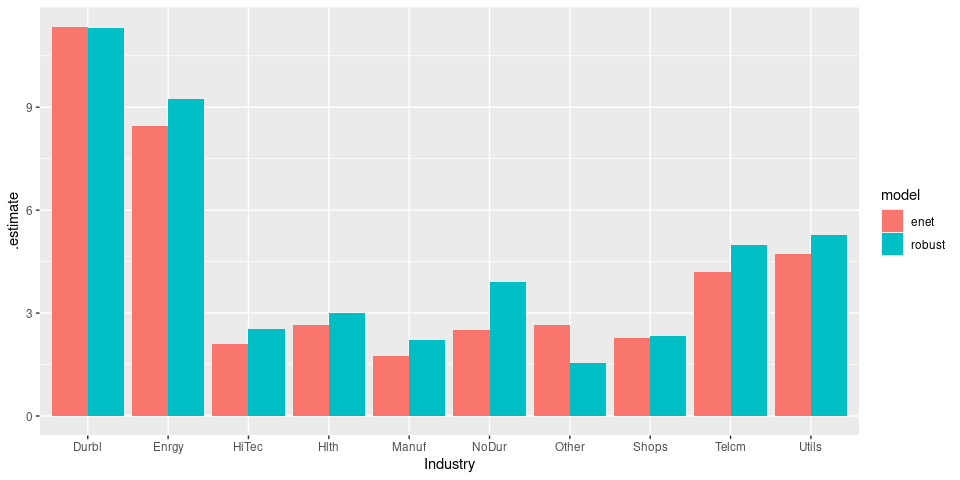
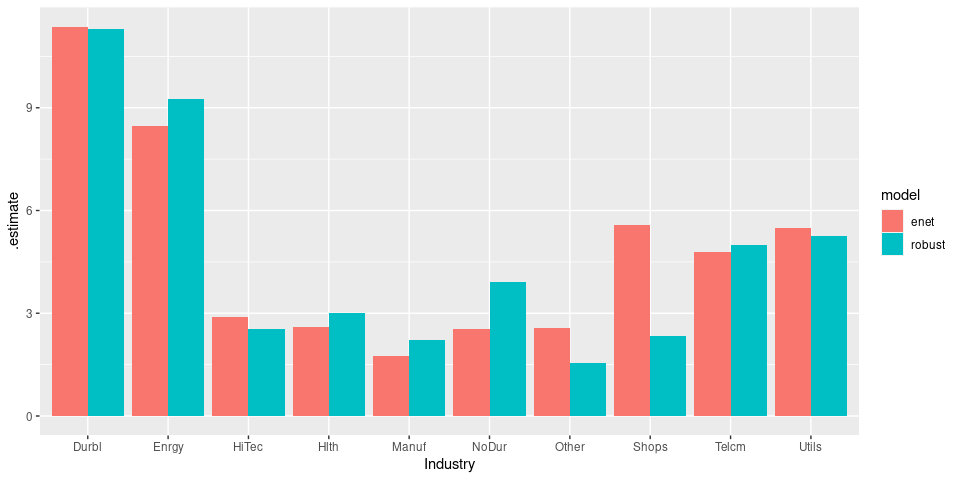
updated README

diff --git a/README.md b/README.md
@@ -407,7 +407,7 @@ yes
 no
 </td>
 </tr>
-<tr grouplength="2">
+<tr grouplength="3">
 <td colspan="5" style="border-bottom: 1px solid;">
 <strong>Subset selection</strong>
 </td>
@@ -431,6 +431,23 @@ yes
 </tr>
 <tr>
 <td style="text-align:left;padding-left: 2em;" indentlevel="1">
+Genetic Algorithm
+</td>
+<td style="text-align:center;">
+genetic
+</td>
+<td style="text-align:center;">
+`gaselect`
+</td>
+<td style="text-align:center;">
+yes
+</td>
+<td style="text-align:center;">
+no
+</td>
+</tr>
+<tr>
+<td style="text-align:left;padding-left: 2em;" indentlevel="1">
 General-to-specific
 </td>
 <td style="text-align:center;">
@@ -446,7 +463,7 @@ yes
 no
 </td>
 </tr>
-<tr grouplength="5">
+<tr grouplength="6">
 <td colspan="5" style="border-bottom: 1px solid;">
 <strong>Bayesian regression</strong>
 </td>
@@ -510,13 +527,30 @@ Bayesian model averaging
 bma
 </td>
 <td style="text-align:center;">
-BMS
+`BMS`
 </td>
 <td style="text-align:center;">
 yes
 </td>
 <td style="text-align:center;">
 no
+</td>
+</tr>
+<tr>
+<td style="text-align:left;padding-left: 2em;" indentlevel="1">
+Bayesian Spike and Slab
+</td>
+<td style="text-align:center;">
+spikeslab
+</td>
+<td style="text-align:center;">
+`BoomSpikeSlab`
+</td>
+<td style="text-align:center;">
+yes
+</td>
+<td style="text-align:center;">
+yes
 </td>
 </tr>
 <tr>
@@ -720,7 +754,7 @@ data
 #>  8 196402 NoDur      1.61     1.54  0.3   2.74 -0.05  0.9 
 #>  9 196403 NoDur      2.77     1.41  1.36  3.36 -2.21  3.19
 #> 10 196404 NoDur     -0.77     0.1  -1.59 -0.58 -1.27 -1.04
-#> # … with 7,070 more rows
+#> # ℹ 7,070 more rows
 ```
 
 We will only use a subset of the data to keep things simple:
@@ -776,13 +810,13 @@ subset_mod_frame <- model_frame %>%
   filter(Industry %in% unique(Industry)[1:2])
 subset_mod_frame
 #> # A tibble: 4 × 8
-#>   Industry model  estimator_fct  `size (MB)` grid_id  model_o…¹ settings warni…²
-#>   <chr>    <chr>  <chr>                <dbl> <chr>    <list>    <list>   <chr>  
-#> 1 Enrgy    enet   glmnet::glmnet      1.21   #001|004 <tidyFit> <tibble> <NA>   
-#> 2 Utils    enet   glmnet::glmnet      1.21   #001|001 <tidyFit> <tibble> <NA>   
-#> 3 Enrgy    robust MASS::rlm           0.0639 #0010000 <tidyFit> <tibble> <NA>   
-#> 4 Utils    robust MASS::rlm           0.0638 #0010000 <tidyFit> <tibble> <NA>   
-#> # … with abbreviated variable names ¹model_object, ²warnings
+#>   Industry model  estimator_fct  `size (MB)` grid_id  model_object settings
+#>   <chr>    <chr>  <chr>                <dbl> <chr>    <list>       <list>  
+#> 1 Enrgy    enet   glmnet::glmnet      1.21   #001|100 <tidyFit>    <tibble>
+#> 2 Shops    enet   glmnet::glmnet      1.21   #001|049 <tidyFit>    <tibble>
+#> 3 Enrgy    robust MASS::rlm           0.0639 #0010000 <tidyFit>    <tibble>
+#> 4 Shops    robust MASS::rlm           0.0638 #0010000 <tidyFit>    <tibble>
+#> # ℹ 1 more variable: warnings <chr>
 ```
 
 Let’s unnest the settings columns:
@@ -790,15 +824,15 @@ Let’s unnest the settings columns:
 ``` r
 subset_mod_frame %>% 
   tidyr::unnest(settings, keep_empty = TRUE)
-#> # A tibble: 4 × 12
-#>   Industry model  estimat…¹ size …² grid_id model_o…³ alpha family lambda method
-#>   <chr>    <chr>  <chr>       <dbl> <chr>   <list>    <dbl> <chr>   <dbl> <chr> 
-#> 1 Enrgy    enet   glmnet::…  1.21   #001|0… <tidyFit>     0 gauss…  0.498 <NA>  
-#> 2 Utils    enet   glmnet::…  1.21   #001|0… <tidyFit>     0 gauss…  1     <NA>  
-#> 3 Enrgy    robust MASS::rlm  0.0639 #00100… <tidyFit>    NA <NA>   NA     MM    
-#> 4 Utils    robust MASS::rlm  0.0638 #00100… <tidyFit>    NA <NA>   NA     MM    
-#> # … with 2 more variables: psi <list>, warnings <chr>, and abbreviated variable
-#> #   names ¹estimator_fct, ²`size (MB)`, ³model_object
+#> # A tibble: 4 × 13
+#>   Industry model  estimator_fct  `size (MB)` grid_id  model_object alpha weights
+#>   <chr>    <chr>  <chr>                <dbl> <chr>    <list>       <dbl> <list> 
+#> 1 Enrgy    enet   glmnet::glmnet      1.21   #001|100 <tidyFit>        0 <NULL> 
+#> 2 Shops    enet   glmnet::glmnet      1.21   #001|049 <tidyFit>        0 <NULL> 
+#> 3 Enrgy    robust MASS::rlm           0.0639 #0010000 <tidyFit>       NA <NULL> 
+#> 4 Shops    robust MASS::rlm           0.0638 #0010000 <tidyFit>       NA <NULL> 
+#> # ℹ 5 more variables: family <chr>, lambda <dbl>, method <chr>, psi <list>,
+#> #   warnings <chr>
 ```
 
 The `tidyfit.models` frame can be used to access additional information.
@@ -820,14 +854,13 @@ for another example):
 subset_mod_frame %>% 
   mutate(fitted_model = map(model_object, ~.$object))
 #> # A tibble: 4 × 9
-#>   Industry model  estimator…¹ size …² grid_id model_o…³ settings warni…⁴ fitte…⁵
-#>   <chr>    <chr>  <chr>         <dbl> <chr>   <list>    <list>   <chr>   <list> 
-#> 1 Enrgy    enet   glmnet::gl…  1.21   #001|0… <tidyFit> <tibble> <NA>    <elnet>
-#> 2 Utils    enet   glmnet::gl…  1.21   #001|0… <tidyFit> <tibble> <NA>    <elnet>
-#> 3 Enrgy    robust MASS::rlm    0.0639 #00100… <tidyFit> <tibble> <NA>    <rlm>  
-#> 4 Utils    robust MASS::rlm    0.0638 #00100… <tidyFit> <tibble> <NA>    <rlm>  
-#> # … with abbreviated variable names ¹estimator_fct, ²`size (MB)`,
-#> #   ³model_object, ⁴warnings, ⁵fitted_model
+#>   Industry model  estimator_fct  `size (MB)` grid_id  model_object settings
+#>   <chr>    <chr>  <chr>                <dbl> <chr>    <list>       <list>  
+#> 1 Enrgy    enet   glmnet::glmnet      1.21   #001|100 <tidyFit>    <tibble>
+#> 2 Shops    enet   glmnet::glmnet      1.21   #001|049 <tidyFit>    <tibble>
+#> 3 Enrgy    robust MASS::rlm           0.0639 #0010000 <tidyFit>    <tibble>
+#> 4 Shops    robust MASS::rlm           0.0638 #0010000 <tidyFit>    <tibble>
+#> # ℹ 2 more variables: warnings <chr>, fitted_model <list>
 ```
 
 To **predict**, we need data with the same columns as the input data and
@@ -841,17 +874,17 @@ predict(subset_mod_frame, data)
 #> # Groups:   Industry, model [4]
 #>    Industry model prediction truth
 #>    <chr>    <chr>      <dbl> <dbl>
-#>  1 Enrgy    enet      -3.82   2.02
-#>  2 Enrgy    enet       3.92   3.69
-#>  3 Enrgy    enet      -2.42  -3.91
-#>  4 Enrgy    enet      -3.34  -0.61
-#>  5 Enrgy    enet       0.785 -1.43
-#>  6 Enrgy    enet      -0.292  4.36
-#>  7 Enrgy    enet       3.72   4.54
+#>  1 Enrgy    enet      -3.77   2.02
+#>  2 Enrgy    enet       3.90   3.69
+#>  3 Enrgy    enet      -2.40  -3.91
+#>  4 Enrgy    enet      -3.30  -0.61
+#>  5 Enrgy    enet       0.762 -1.43
+#>  6 Enrgy    enet      -0.293  4.36
+#>  7 Enrgy    enet       3.68   4.54
 #>  8 Enrgy    enet       2.31   0.8 
-#>  9 Enrgy    enet       7.32   1.09
-#> 10 Enrgy    enet      -2.58   3.74
-#> # … with 2,822 more rows
+#>  9 Enrgy    enet       7.26   1.09
+#> 10 Enrgy    enet      -2.53   3.74
+#> # ℹ 2,822 more rows
 ```
 
 Finally, we can obtain a **tidy frame of the coefficients** using the
@@ -864,17 +897,17 @@ estimates
 #> # Groups:   Industry, model [4]
 #>    Industry model term        estimate model_info      
 #>    <chr>    <chr> <chr>          <dbl> <list>          
-#>  1 Enrgy    enet  (Intercept)  -0.968  <tibble [1 × 4]>
-#>  2 Enrgy    enet  Mkt-RF        1.21   <tibble [1 × 4]>
-#>  3 Enrgy    enet  SMB           0.705  <tibble [1 × 4]>
-#>  4 Enrgy    enet  HML          -0.0133 <tibble [1 × 4]>
-#>  5 Enrgy    enet  RMW          -0.619  <tibble [1 × 4]>
-#>  6 Enrgy    enet  CMA           1.35   <tibble [1 × 4]>
-#>  7 Utils    enet  (Intercept)   0.798  <tibble [1 × 4]>
-#>  8 Utils    enet  Mkt-RF        0.230  <tibble [1 × 4]>
-#>  9 Utils    enet  SMB           0.311  <tibble [1 × 4]>
-#> 10 Utils    enet  HML          -0.0229 <tibble [1 × 4]>
-#> # … with 14 more rows
+#>  1 Enrgy    enet  (Intercept) -0.955   <tibble [1 × 4]>
+#>  2 Enrgy    enet  Mkt-RF       1.20    <tibble [1 × 4]>
+#>  3 Enrgy    enet  SMB          0.703   <tibble [1 × 4]>
+#>  4 Enrgy    enet  HML         -0.00208 <tibble [1 × 4]>
+#>  5 Enrgy    enet  RMW         -0.622   <tibble [1 × 4]>
+#>  6 Enrgy    enet  CMA          1.32    <tibble [1 × 4]>
+#>  7 Shops    enet  (Intercept)  1.03    <tibble [1 × 4]>
+#>  8 Shops    enet  Mkt-RF       0.0849  <tibble [1 × 4]>
+#>  9 Shops    enet  SMB          0.0353  <tibble [1 × 4]>
+#> 10 Shops    enet  HML         -0.0149  <tibble [1 × 4]>
+#> # ℹ 14 more rows
 ```
 
 The estimates contain additional method-specific information that is
@@ -887,17 +920,17 @@ tidyr::unnest(estimates, model_info)
 #> # Groups:   Industry, model [4]
 #>    Industry model term        estimate lambda dev.ratio std.error statistic
 #>    <chr>    <chr> <chr>          <dbl>  <dbl>     <dbl>     <dbl>     <dbl>
-#>  1 Enrgy    enet  (Intercept)  -0.968   0.498     0.813        NA        NA
-#>  2 Enrgy    enet  Mkt-RF        1.21    0.498     0.813        NA        NA
-#>  3 Enrgy    enet  SMB           0.705   0.498     0.813        NA        NA
-#>  4 Enrgy    enet  HML          -0.0133  0.498     0.813        NA        NA
-#>  5 Enrgy    enet  RMW          -0.619   0.498     0.813        NA        NA
-#>  6 Enrgy    enet  CMA           1.35    0.498     0.813        NA        NA
-#>  7 Utils    enet  (Intercept)   0.798   1         0.402        NA        NA
-#>  8 Utils    enet  Mkt-RF        0.230   1         0.402        NA        NA
-#>  9 Utils    enet  SMB           0.311   1         0.402        NA        NA
-#> 10 Utils    enet  HML          -0.0229  1         0.402        NA        NA
-#> # … with 14 more rows
+#>  1 Enrgy    enet  (Intercept) -0.955    0.536     0.812        NA        NA
+#>  2 Enrgy    enet  Mkt-RF       1.20     0.536     0.812        NA        NA
+#>  3 Enrgy    enet  SMB          0.703    0.536     0.812        NA        NA
+#>  4 Enrgy    enet  HML         -0.00208  0.536     0.812        NA        NA
+#>  5 Enrgy    enet  RMW         -0.622    0.536     0.812        NA        NA
+#>  6 Enrgy    enet  CMA          1.32     0.536     0.812        NA        NA
+#>  7 Shops    enet  (Intercept)  1.03    50.1       0.173        NA        NA
+#>  8 Shops    enet  Mkt-RF       0.0849  50.1       0.173        NA        NA
+#>  9 Shops    enet  SMB          0.0353  50.1       0.173        NA        NA
+#> 10 Shops    enet  HML         -0.0149  50.1       0.173        NA        NA
+#> # ℹ 14 more rows
 ```
 
 Additional generics such as `fitted` or `resid` can be used to obtain
